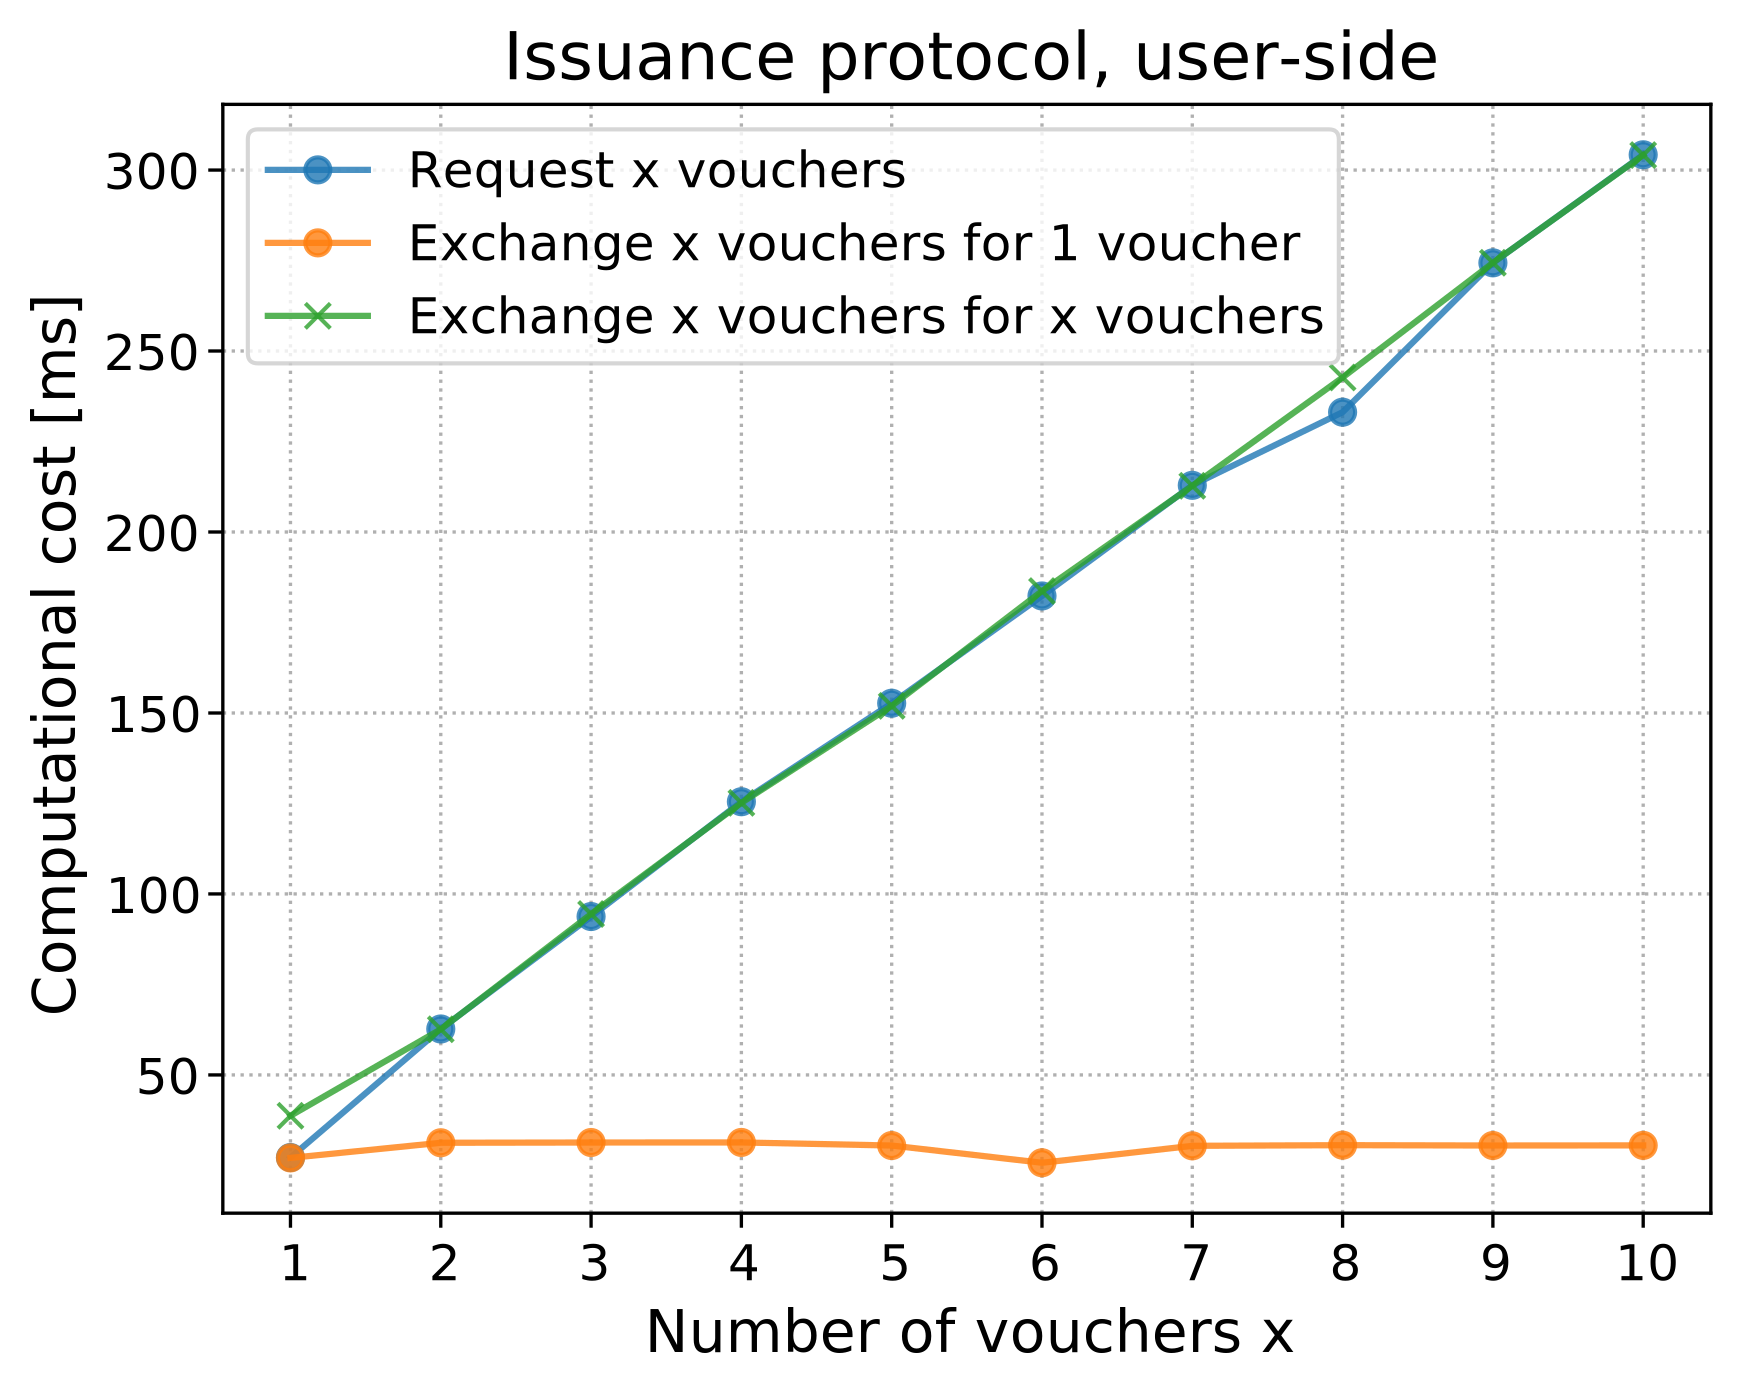
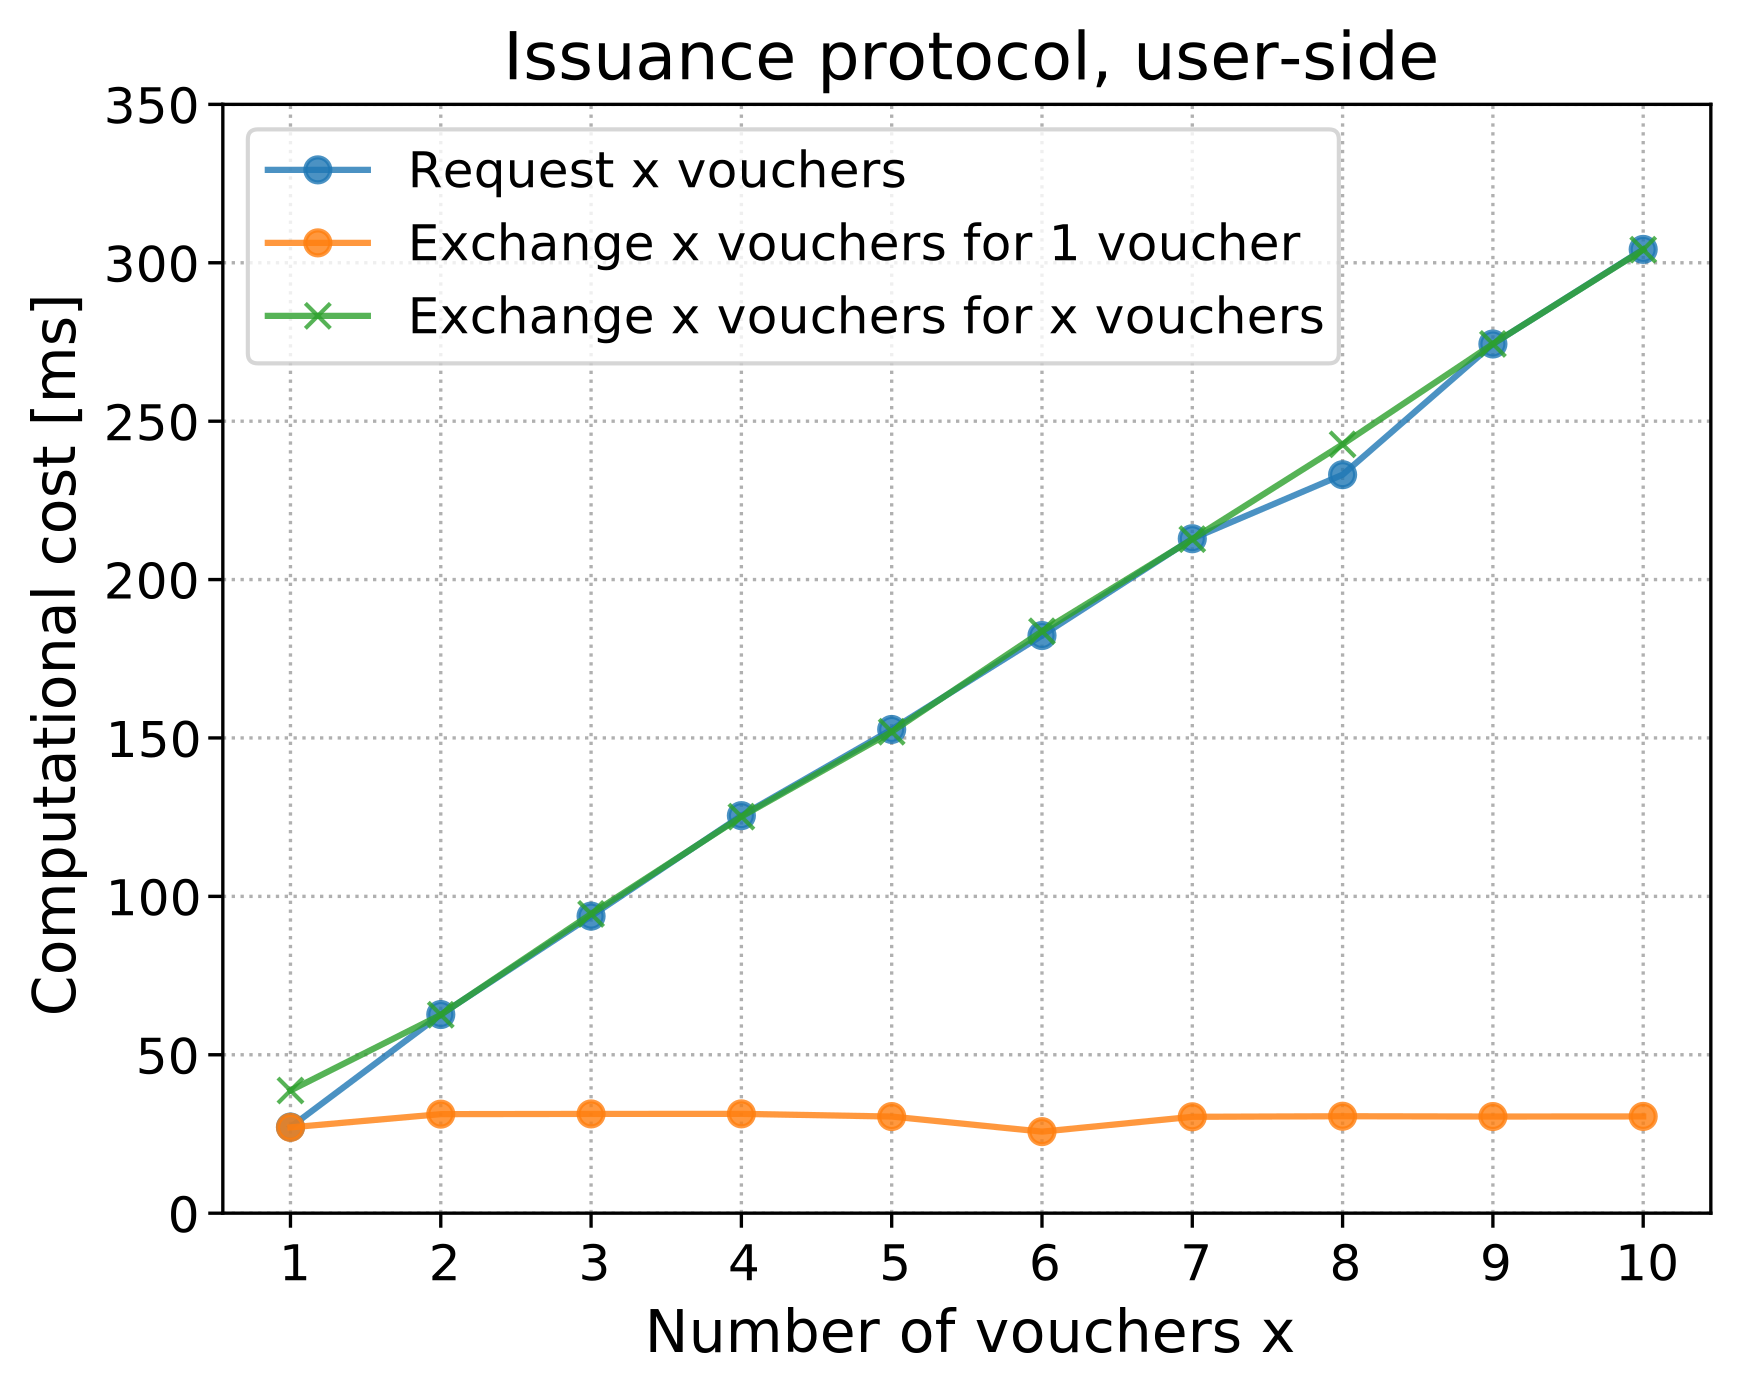
update benchmarks

diff --git a/common/nymcash/benches/final_plots.py b/common/nymcash/benches/final_plots.py
@@ -53,6 +53,7 @@ ax1.legend(loc="upper left", fontsize=12)
 ax1.tick_params(axis="both", which="major", labelsize=12)
 ax1.set_xticks(x_values)
 ax1.grid(True, which="both", axis="both", linestyle="dotted")
+ax1.set_ylim(0,1900)
 
 plt.savefig("Request protocol, user-side", bbox_inches="tight", dpi=300)
 # plt.show()
@@ -73,6 +74,7 @@ ax2.legend(loc="upper left", fontsize=12)
 ax2.tick_params(axis="both", which="major", labelsize=12)
 ax2.set_xticks(x_values)
 ax2.grid(True, which="both", axis="both", linestyle="dotted")
+ax2.set_ylim(0,35000)
 
 plt.savefig("Request protocol, from user to authority", bbox_inches="tight", dpi=300)
 # plt.show()
@@ -93,6 +95,7 @@ ax3.legend(loc="upper left", fontsize=12)
 ax3.tick_params(axis="both", which="major", labelsize=12)
 ax3.set_xticks(x_values)
 ax3.grid(True, which="both", axis="both", linestyle="dotted")
+ax3.set_ylim(0,1700)
 
 plt.savefig("Issuance protocol, authority-side", bbox_inches="tight", dpi=300)
 # plt.show()
@@ -113,6 +116,7 @@ ax4.legend(loc="upper left", fontsize=12)
 ax4.tick_params(axis="both", which="major", labelsize=12)
 ax4.set_xticks(x_values)
 ax4.grid(True, which="both", axis="both", linestyle="dotted")
+ax4.set_ylim(0,1100)
 
 plt.savefig("Issuance protocol, from authority to user", bbox_inches="tight", dpi=300)
 # plt.show()
@@ -133,6 +137,7 @@ ax5.legend(loc="upper left", fontsize=12)
 ax5.tick_params(axis="both", which="major", labelsize=12)
 ax5.set_xticks(x_values)
 ax5.grid(True, which="both", axis="both", linestyle="dotted")
+ax5.set_ylim(0,350)
 
 plt.savefig("Issuance protocol, user-side", bbox_inches="tight", dpi=300)
 # plt.show()
@@ -151,42 +156,45 @@ ax6.legend(loc="upper left", fontsize=12)
 ax6.tick_params(axis="both", which="major", labelsize=12)
 ax6.set_xticks(x_values)
 ax6.grid(True, which="both", axis="both", linestyle="dotted")
+ax6.set_ylim(0,180)
 
 plt.savefig("Spend protocol, user-side", bbox_inches="tight", dpi=300)
 # plt.show()
 
 # plot
-fig, ax6 = plt.subplots()
+fig, ax7 = plt.subplots()
 
-ax6.set_title("Spend protocol, from user to provider", fontsize=16)
-ax6.set_xlabel("Number of vouchers x", fontsize=14)
-ax6.set_ylabel("Communication cost [bytes]", fontsize=14)
+ax7.set_title("Spend protocol, from user to provider", fontsize=16)
+ax7.set_xlabel("Number of vouchers x", fontsize=14)
+ax7.set_ylabel("Communication cost [bytes]", fontsize=14)
 
-ax6.plot(x_values, spend_size, label="Spend x vouchers", marker="o", alpha=0.8, color="red")
+ax7.plot(x_values, spend_size, label="Spend x vouchers", marker="o", alpha=0.8, color="red")
 
-ax6.legend(loc="upper left", fontsize=12)
+ax7.legend(loc="upper left", fontsize=12)
 
-ax6.tick_params(axis="both", which="major", labelsize=12)
-ax6.set_xticks(x_values)
-ax6.grid(True, which="both", axis="both", linestyle="dotted")
+ax7.tick_params(axis="both", which="major", labelsize=12)
+ax7.set_xticks(x_values)
+ax7.grid(True, which="both", axis="both", linestyle="dotted")
+ax7.set_ylim(0,3500)
 
 plt.savefig("Spend protocol, from user to provider", bbox_inches="tight", dpi=300)
 # plt.show()
 
 # plot
-fig, ax6 = plt.subplots()
+fig, ax8 = plt.subplots()
 
-ax6.set_title("Spend protocol, provider-side", fontsize=16)
-ax6.set_xlabel("Number of vouchers x", fontsize=14)
-ax6.set_ylabel("Computational cost [ms]", fontsize=14)
+ax8.set_title("Spend protocol, provider-side", fontsize=16)
+ax8.set_xlabel("Number of vouchers x", fontsize=14)
+ax8.set_ylabel("Computational cost [ms]", fontsize=14)
 
-ax6.plot(x_values, spend_verifier, label="Spend x vouchers", marker="o", alpha=0.8, color="red")
+ax8.plot(x_values, spend_verifier, label="Spend x vouchers", marker="o", alpha=0.8, color="red")
 
-ax6.legend(loc="upper left", fontsize=12)
+ax8.legend(loc="upper left", fontsize=12)
 
-ax6.tick_params(axis="both", which="major", labelsize=12)
-ax6.set_xticks(x_values)
-ax6.grid(True, which="both", axis="both", linestyle="dotted")
+ax8.tick_params(axis="both", which="major", labelsize=12)
+ax8.set_xticks(x_values)
+ax8.grid(True, which="both", axis="both", linestyle="dotted")
+ax8.set_ylim(0,190)
 
 plt.savefig("Spend protocol, provider-side", bbox_inches="tight", dpi=300)
 # plt.show()
